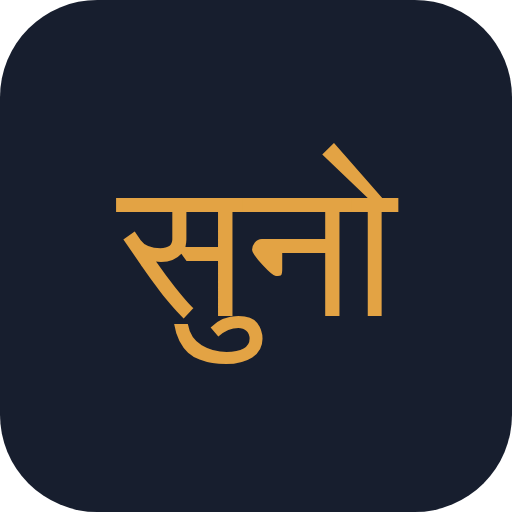
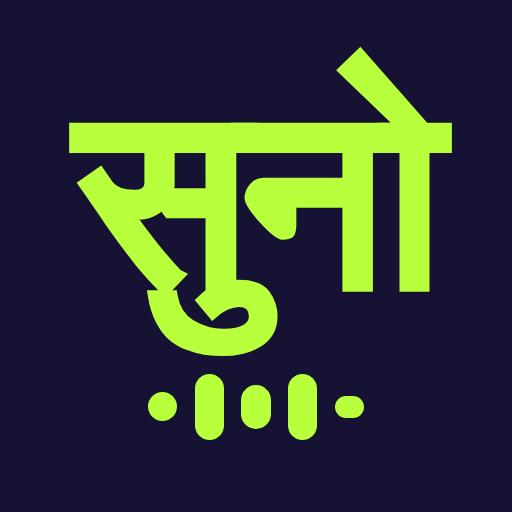
Add files via upload

diff --git a/docs/index.html b/docs/index.html
@@ -16,7 +16,7 @@
 <meta name="theme-color" content="#EFEEE8">
 <link rel="preconnect" href="https://fonts.googleapis.com">
 <link rel="preconnect" href="https://fonts.gstatic.com" crossorigin>
-<link rel="stylesheet" href="https://fonts.googleapis.com/css2?family=Bricolage+Grotesque:opsz,wght@12..96,400;12..96,600;12..96,800&family=IBM+Plex+Mono:wght@400;500&family=Noto+Serif+Devanagari:wght@400;500;600&display=swap">
+<link rel="stylesheet" href="https://fonts.googleapis.com/css2?family=Baloo+2:wght@600;800&family=Bricolage+Grotesque:opsz,wght@12..96,400;12..96,600;12..96,800&family=IBM+Plex+Mono:wght@400;500&family=Noto+Serif+Devanagari:wght@400;500;600&display=swap">
 
 <style>
 :root{
@@ -76,9 +76,11 @@ button{font:inherit; color:inherit; cursor:pointer; border:0; background:none}
   backdrop-filter:saturate(1.4) blur(10px);
   border-bottom:1px solid var(--line);
 }
+/* The wordmark is the app icon, inline: same face, same two colours. */
 .mark{
-  font-family:var(--dev); font-weight:600; font-size:19px; line-height:1;
-  color:var(--accent); letter-spacing:.01em; flex:0 0 auto;
+  font-family:"Baloo 2",var(--dev); font-weight:800; font-size:16px; line-height:1;
+  color:#B8FF3C; background:#151233; letter-spacing:-.02em;
+  padding:6px 10px 8px; border-radius:9px; flex:0 0 auto;
 }
 .docname{
   flex:1 1 auto; min-width:0; font-size:13px; color:var(--ink-2);
